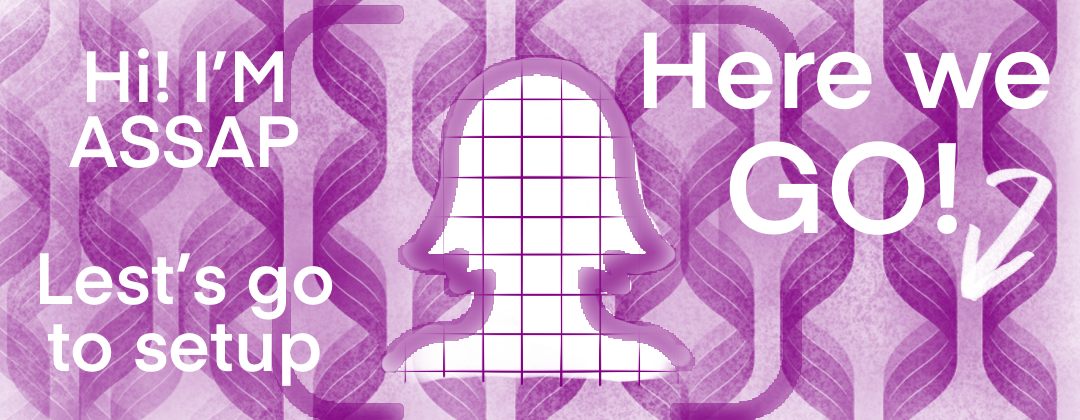
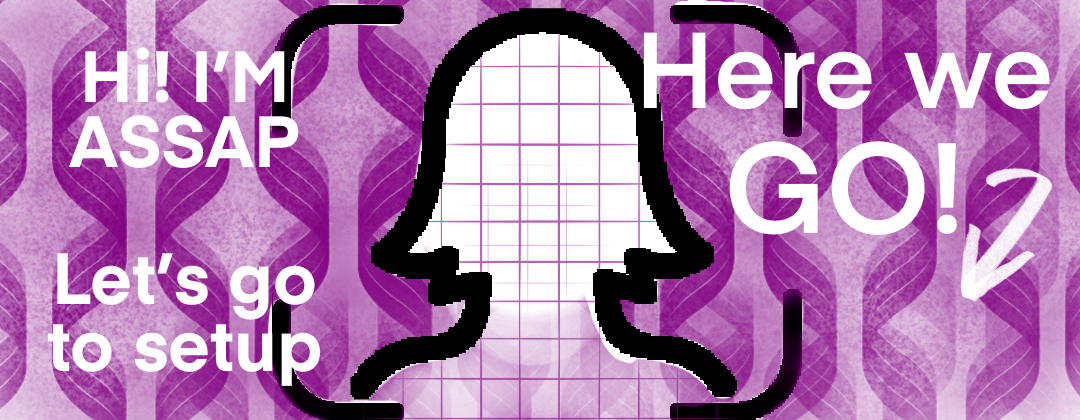
train images

diff --git a/src/components/Wizard.vue b/src/components/Wizard.vue
@@ -3,10 +3,10 @@
     .wizard-wrapper( class="step1" v-if="isStep1")
       .button-wrapper
         button(@click="goTraining()") Start!
-    .wizard-wrapper.step2(v-if="isStep2")
+    .wizard-wrapper( class="step2" v-if="isStep2")
       .button-wrapper
         button(@click="train()") Train!
-    .wizard-wrapper.step3(v-if="isStep3")
+    .wizard-wrapper( class="step3" v-if="isStep3")
       .button-wrapper
         button(@click="checkTraining()") Finish!
 </template>
@@ -74,12 +74,12 @@ export default {
       background-repeat: no-repeat
       background-position: 50% 10%
     .step2
-      background-image: url('../assets/setup1.png')
+      background-image: url('../assets/setup2.png')
       background-size: 270px 105px
       background-repeat: no-repeat
       background-position: 50% 10%
     .step3
-      background-image: url('../assets/setup1.png')
+      background-image: url('../assets/setup3.png')
       background-size: 270px 105px
       background-repeat: no-repeat
       background-position: 50% 10%
